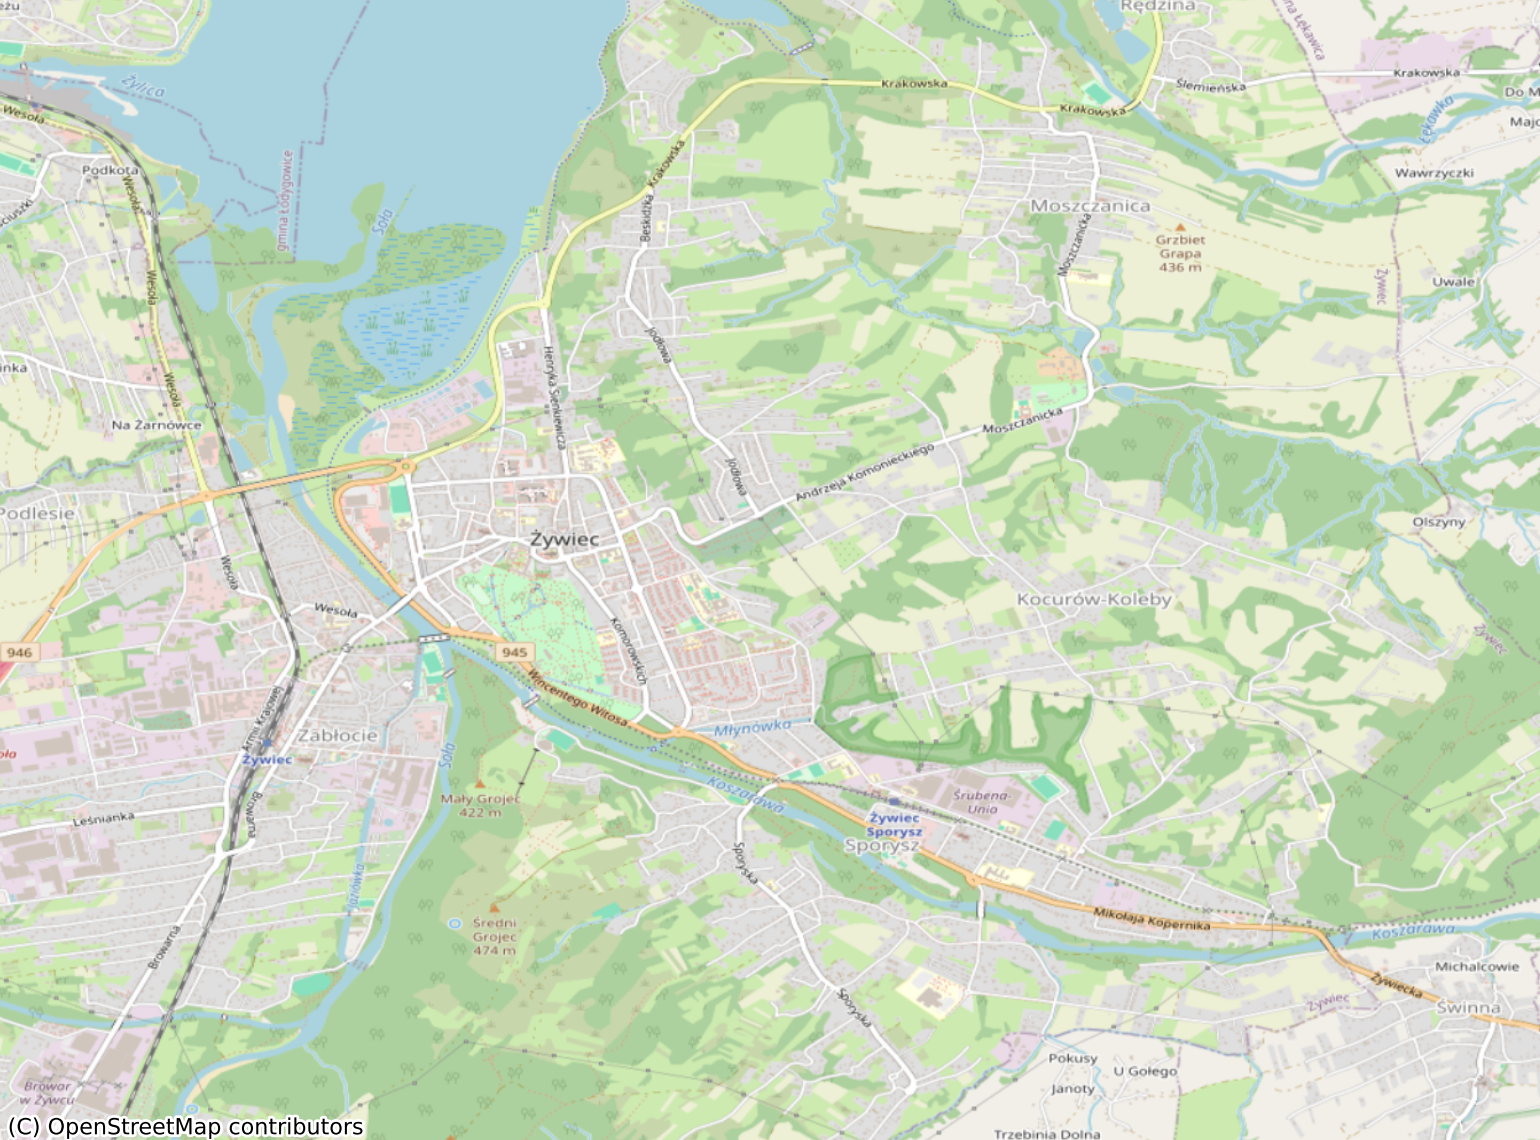
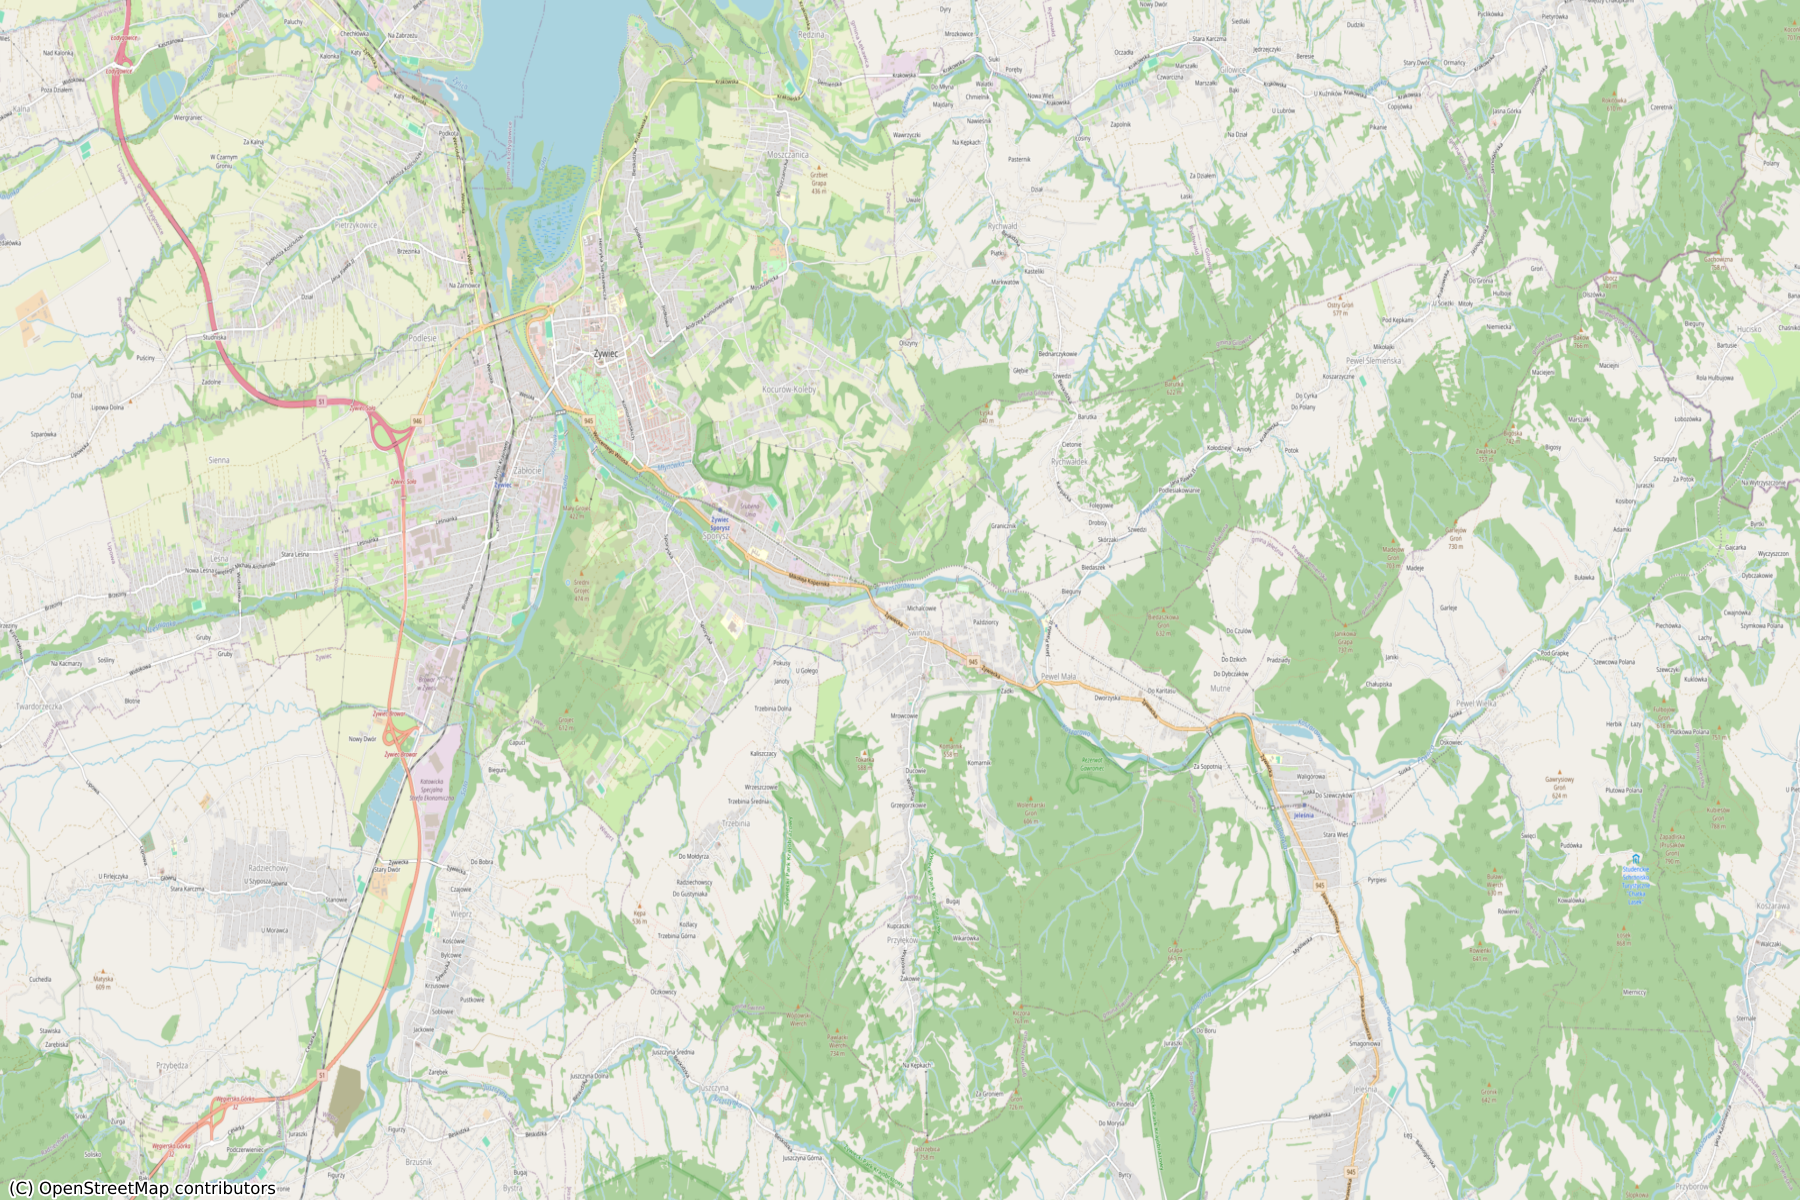
map generation fixed to fit all points, lat and long for sanitary plant fixed

diff --git a/visualisation/map_download.py b/visualisation/map_download.py
@@ -1,21 +1,76 @@
+import pandas as pd
 import contextily as cx
 import matplotlib.pyplot as plt
+import os
+import csv
 
-def get_map( south = 49.6600, north=49.7150, east=19.2600 ,west=19.1700, epsg = "EPSG:4326"):
-    # bbox Żywca
-    # north, south = 49.7150, 49.6600
-    # east,  west  = 19.2600, 19.1700
 
-    # pusty wykres z granicami w WGS84
-    fig, ax = plt.subplots(figsize=(8,6))
+def get_map():
+    # 1. Wczytaj współrzędne wszystkich punktów
+    csv_path = os.path.join("../data", "wspolrzedne.csv")
+    if not os.path.exists(csv_path):
+        print(f"Błąd: Nie znaleziono pliku {csv_path}")
+        return
+
+    df = pd.read_csv(csv_path)
+
+    # 2. Znajdź skrajne punkty (min/max)
+    min_lat = df["lat"].min()
+    max_lat = df["lat"].max()
+    min_lon = df["lon"].min()
+    max_lon = df["lon"].max()
+
+    # 3. Dodaj margines (bufor), żeby punkty nie były na samej krawędzi
+    # 0.005 stopnia to około 300-500 metrów marginesu
+    margin = 0.01
+
+    south = min_lat - margin
+    north = max_lat + margin
+    west = min_lon - margin
+    east = max_lon + margin
+
+    print(f"Generuję mapę dla zakresu:")
+    print(f"Lat: {south:.4f} - {north:.4f}")
+    print(f"Lon: {west:.4f} - {east:.4f}")
+
+    # 4. Pobierz i zapisz mapę
+    fig, ax = plt.subplots(figsize=(12, 8))  # Większa rozdzielczość bazowa
+
+    # Ustawienie zakresu osi (WGS84)
     ax.set_xlim([west, east])
     ax.set_ylim([south, north])
 
-    # dociągnij kafelki w Web Mercator i nałóż (contextily wykona reprojekcję)
-    cx.add_basemap(ax, source=cx.providers.OpenStreetMap.Mapnik, crs=epsg, zoom=14)
-    ax.axis('off')
-    plt.tight_layout()
-    plt.savefig("map.png", dpi=200, bbox_inches="tight", pad_inches=0)
+    # Pobranie kafelków mapy (OpenStreetMap)
+    try:
+        cx.add_basemap(ax, crs="EPSG:4326", source=cx.providers.OpenStreetMap.Mapnik, zoom=14)
+    except Exception as e:
+        print("Błąd pobierania mapy (sprawdź internet):", e)
+        return
 
-# get_map(49.6700, 49.7000, 19.1900, 19.2300)
-get_map()
+    ax.axis('off')
+    plt.tight_layout(pad=0)
+
+    output_path = os.path.join("../visualisation", "map.png")
+    # Zapisujemy z nadpisaniem starej mapy
+    plt.savefig(output_path, dpi=150, bbox_inches="tight", pad_inches=0)
+
+    MAP_BOUNDS = (south, north, east, west)
+    bounds_path = os.path.join("data", "map_bounds.csv")
+
+    # Zapisujemy wartości MAP_BOUNDS do CSV : south, north, east, west
+    with open(bounds_path, mode='w', newline='') as f:
+        writer = csv.writer(f)
+        writer.writerow(['south', 'north', 'east', 'west'])  # Nagłówek
+        writer.writerow([south, north, west, east])  # Wartości
+
+    print(f"Zapisano granice mapy do pliku: {bounds_path}")
+
+    print("\n" + "=" * 50)
+    print("Nowa mapa została zapisana w visualization/map.png")
+    print("Nowe współrzędne graniczne:")
+    print(f"MAP_BOUNDS = ({south:.5f}, {north:.5f}, {east:.5f}, {west:.5f})")
+    print("=" * 50)
+
+
+if __name__ == "__main__":
+    get_map()

diff --git a/visualisation/graphics_functions.py b/visualisation/graphics_functions.py
@@ -5,30 +5,75 @@ from typing import Dict, Optional, Tuple, List
 import os
 import math
 import warnings
+import csv
 
 os.environ['PYGAME_HIDE_SUPPORT_PROMPT'] = "1"
 warnings.filterwarnings("ignore", category=UserWarning, message=".*pkg_resources is deprecated.*")
 import pygame
+
+from visualisation.map_download import get_map
+
+# Definicje ścieżek
+BOUNDS_PATH = os.path.join("data", "map_bounds.csv")
+MAP_IMAGE = "visualisation/map.png"
+
+
+def get_dynamic_map_bounds():
+    # 1. Sprawdź czy pliki istnieją
+    if not os.path.exists(BOUNDS_PATH) or not os.path.exists(MAP_IMAGE):
+        print(f"[INFO] Brak plików mapy ({MAP_IMAGE}) lub granic ({BOUNDS_PATH}).")
+        print("[INFO] Uruchamiam automatyczne generowanie mapy...")
+        try:
+            get_map()
+        except Exception as e:
+            print(f"[ERROR] Błąd podczas generowania mapy: {e}")
+            # Zwracamy domyślne (fallback) jeśli generowanie się nie uda
+            return (49.62049, 49.71757, 19.40470, 19.10064)
+
+    # 2. Odczytaj wartości z pliku
+    try:
+        with open(BOUNDS_PATH, mode='r') as f:
+            reader = csv.reader(f)
+            header = next(reader)  # Pomiń nagłówek
+            row = next(reader)
+
+            # W map_download.py zapisywaliśmy: [south, north, west, east]
+            south = float(row[0])
+            north = float(row[1])
+            west = float(row[2])  # min_lon
+            east = float(row[3])  # max_lon
+
+            # Twoja zmienna MAP_BOUNDS w poprzednim pytaniu miała format:
+            # (south, north, east, west) <- zwróć uwagę na kolejność East/West
+            # więc zwracamy je w takiej kolejności:
+            print(f"[INFO] Wczytano granice mapy: S={south}, N={north}, E={east}, W={west}")
+            return (south, north, east, west)
+
+    except Exception as e:
+        print(f"[ERROR] Błąd odczytu pliku CSV: {e}. Używam wartości domyślnych.")
+        return (49.62049, 49.71757, 19.40470, 19.10064)
+
+# === Konfiguracja mapy ===
+# # MAP_BOUNDS = (49.6600, 49.7150, 19.2600, 19.1700)
+# MAP_BOUNDS = (49.62049, 49.71757, 19.40470, 19.10064)
+MAP_BOUNDS = get_dynamic_map_bounds()
+
 
 # ====== Konfiguracja UI ======
 WINDOW_W, WINDOW_H = 1280, 720
 FPS = 60
 CHART_MAX_POINTS = 600
 
-# Zakres geograficzny mapy
-MAP_BOUNDS = (49.6600, 49.7150, 19.2600, 19.1700)
-MAP_IMAGE = "visualisation/map.png"
-
 # Kolory
-WHITE = (255, 255, 255);
-BLACK = (25, 25, 25);
-GRAY = (140, 140, 140);
+WHITE = (255, 255, 255)
+BLACK = (25, 25, 25)
+GRAY = (140, 140, 140)
 LIGHT = (236, 240, 245)
-RED = (226, 78, 78);
-GREEN = (52, 199, 121);
-ORANGE = (245, 165, 60);
+RED = (226, 78, 78)
+GREEN = (52, 199, 121)
+ORANGE = (245, 165, 60)
 BLUE = (66, 133, 244)
-DARK_RED = (150, 20, 20);
+DARK_RED = (150, 20, 20)
 YELLOW = (240, 230, 50)
 BROWN = (139, 69, 19)
 
